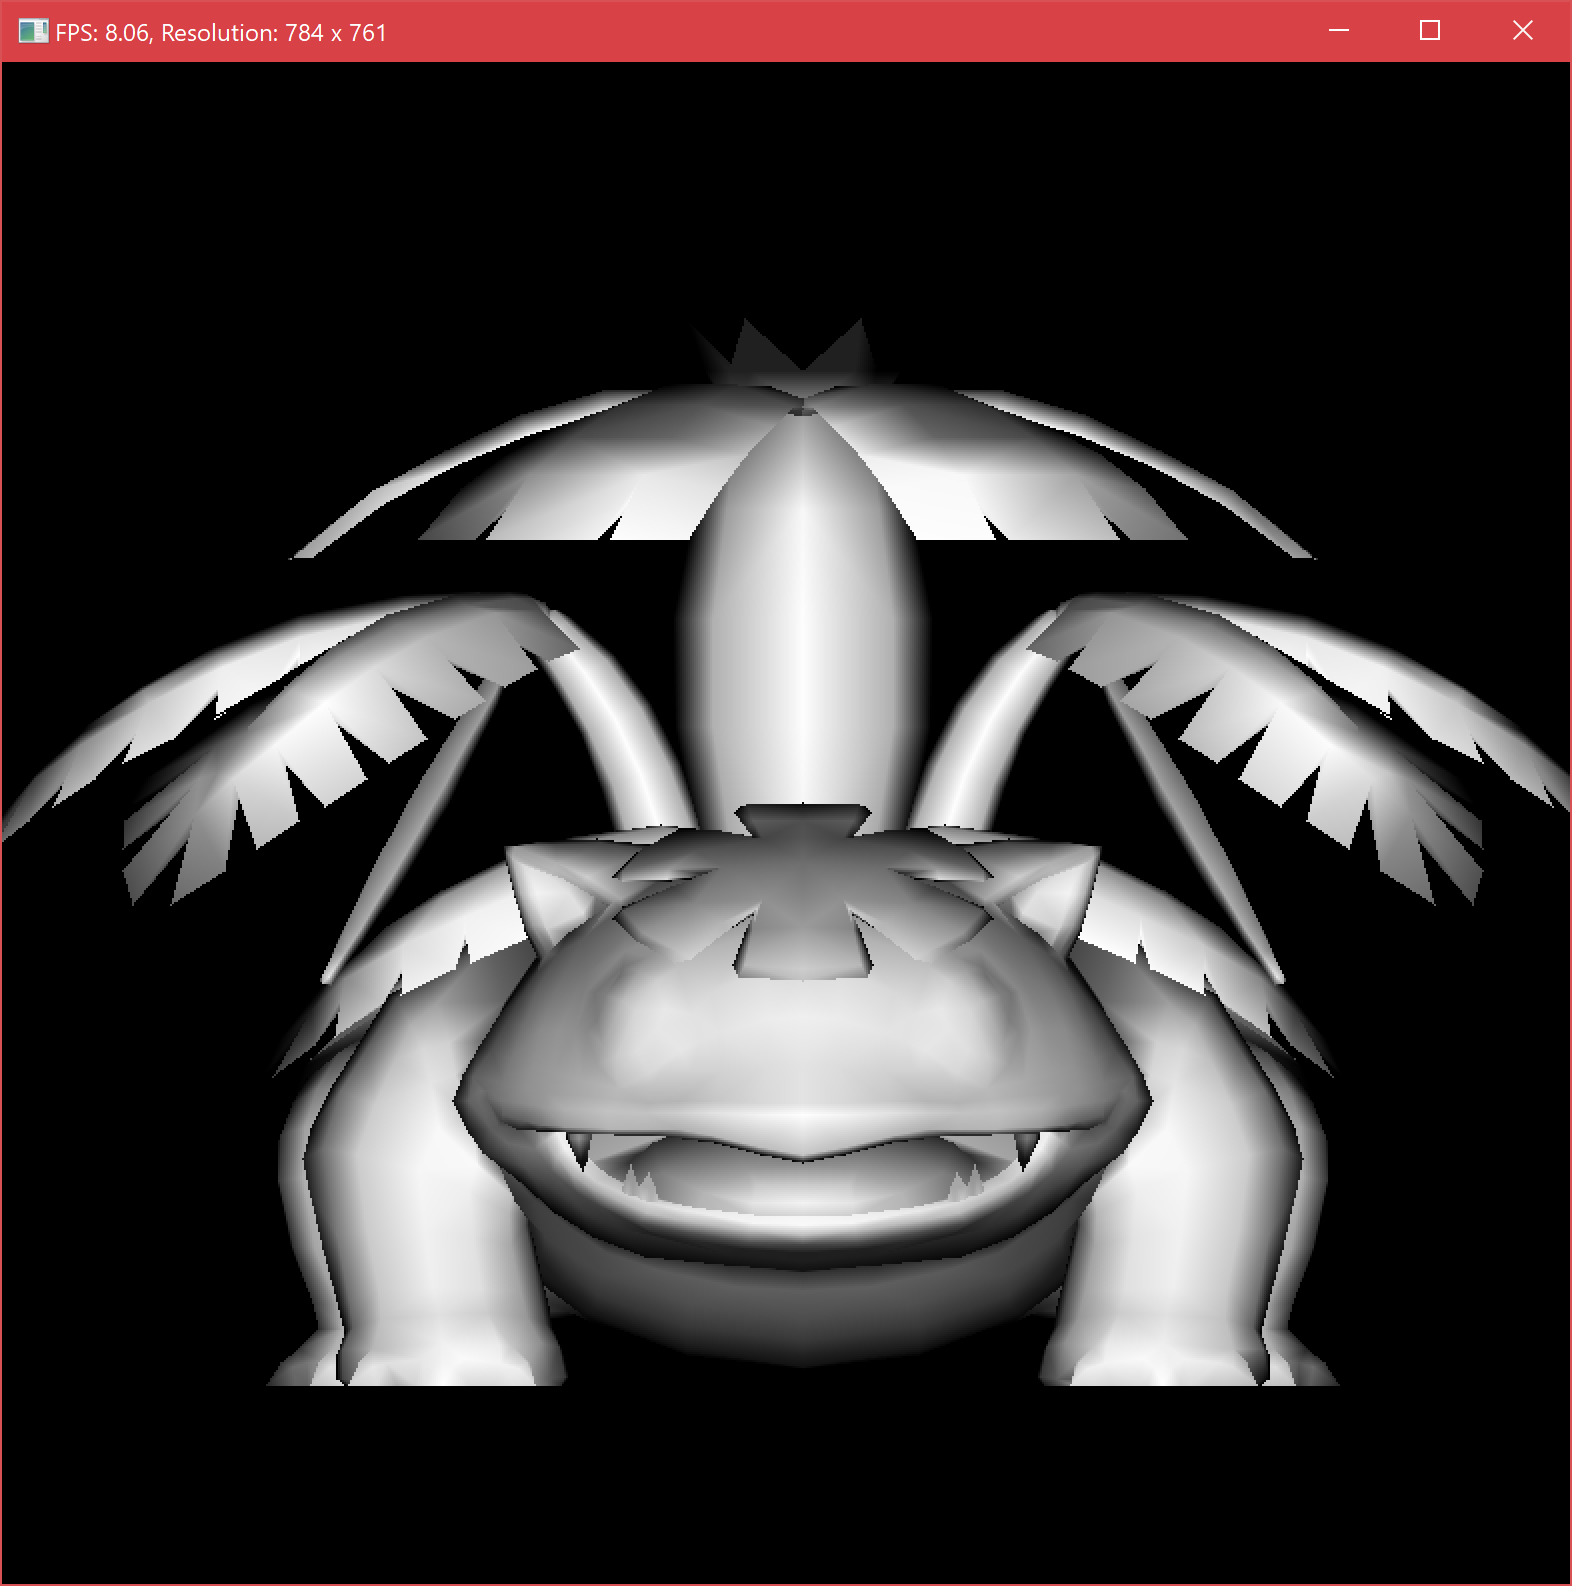
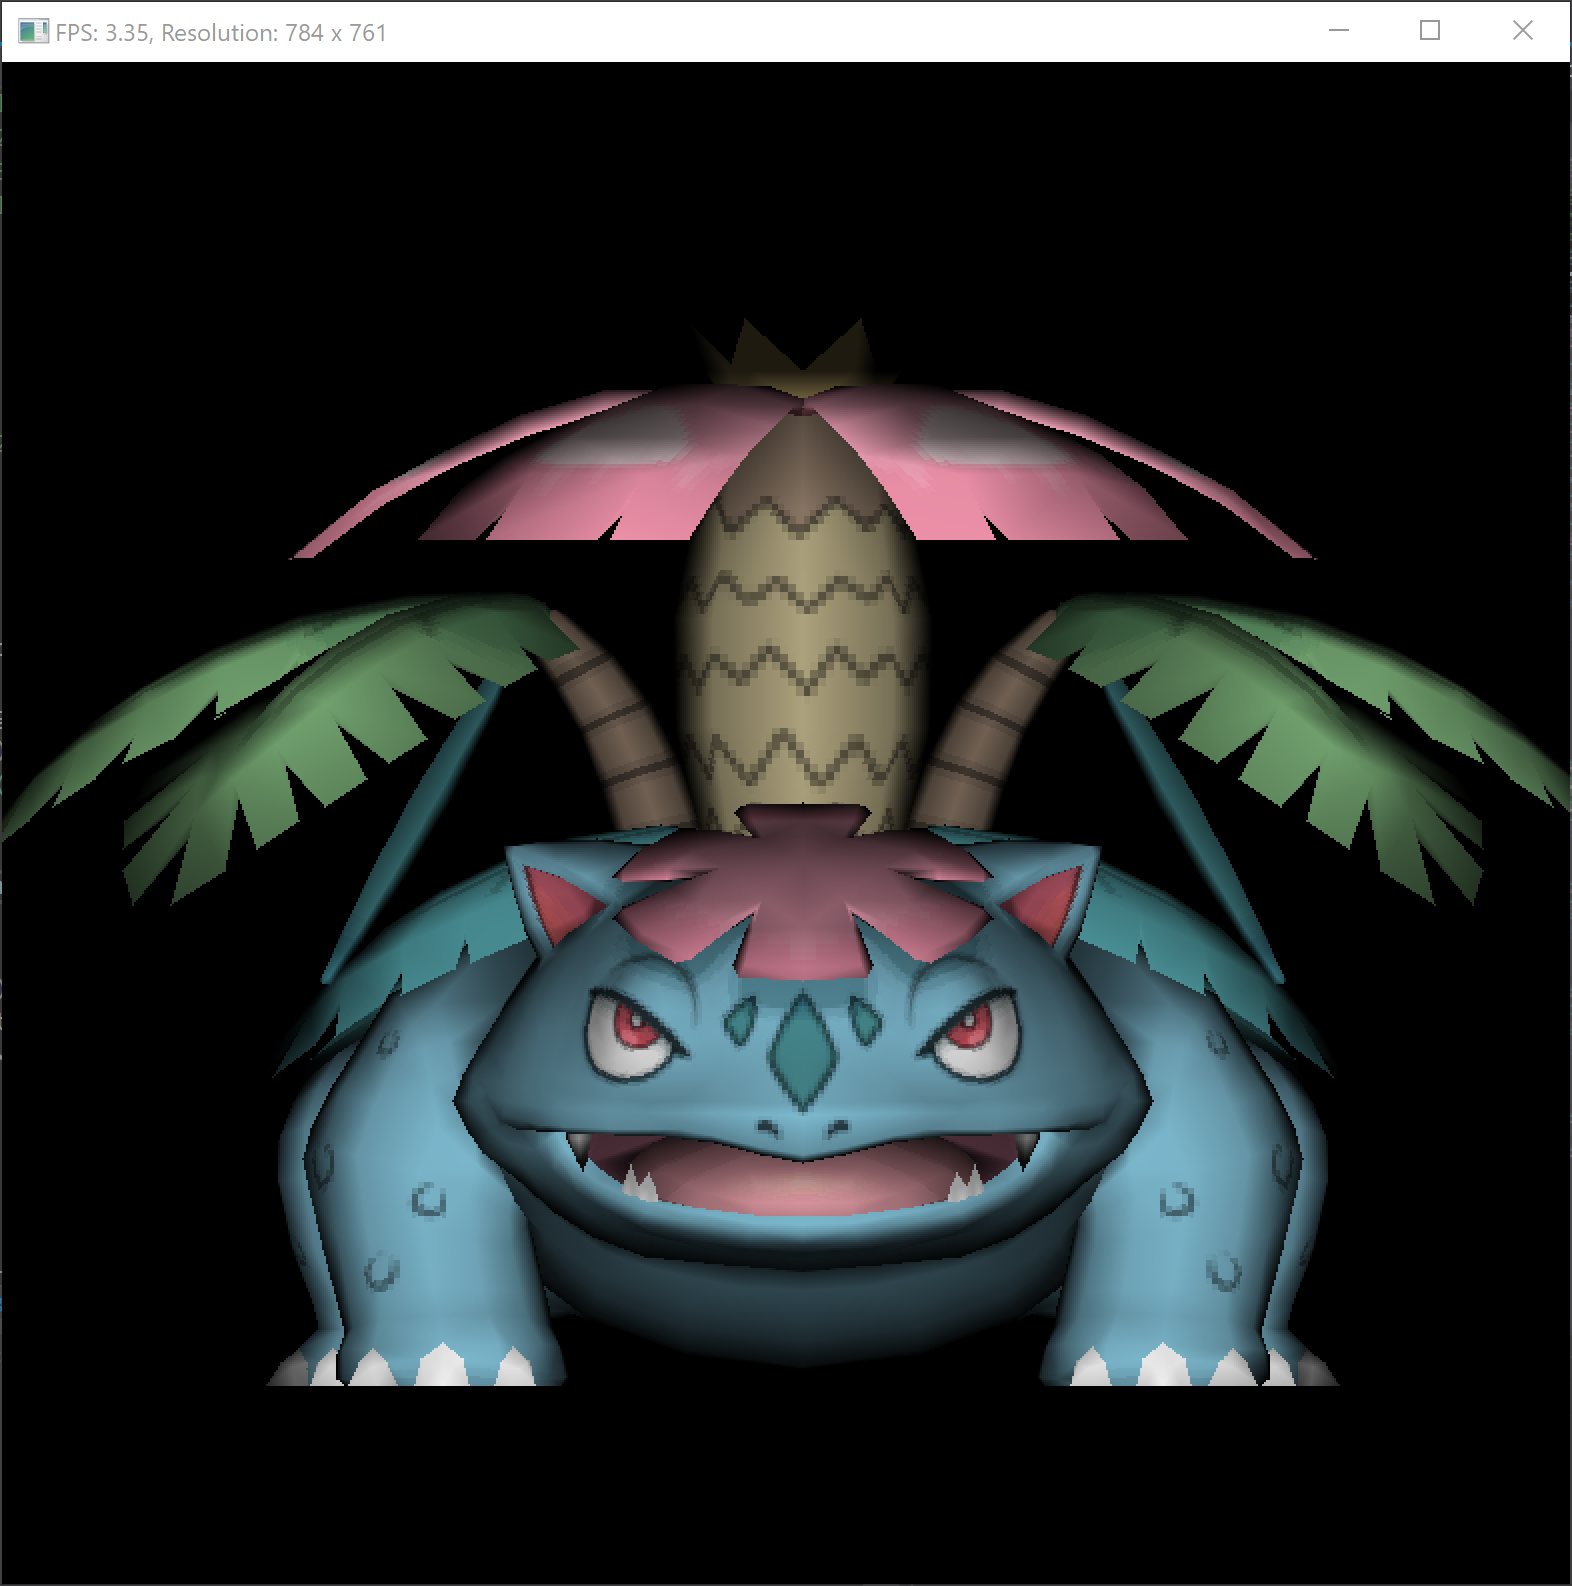
Can draw textured models now.

diff --git a/SoftwareRenderer/SoftwareRenderer/CRenderer.cpp b/SoftwareRenderer/SoftwareRenderer/CRenderer.cpp
@@ -27,10 +27,19 @@
 //}
 
 Eigen::Vector3f barycentric(CPixel p1, CPixel p2, CPixel p3, int x, int y) {
-	
+
 	Eigen::Vector3f u = Eigen::Vector3f(p3.x() - p1.x(), p2.x() - p1.x(), p1.x() - x).cross(Eigen::Vector3f(p3.y() - p1.y(), p2.y() - p1.y(), p1.y() - y));
-	if (std::abs(u[2])<1) return Eigen::Vector3f(-1, 1, 1); // triangle is degenerate, in this case return smth with negative coordinates 
+	if (std::abs(u(2)) < 1) return Eigen::Vector3f(-1, 1, 1); // triangle is degenerate, in this case return smth with negative coordinates 
 	return Eigen::Vector3f(1.f - (u(0) + u(1)) / u(2), u(1) / u(2), u(0) / u(2));
+}
+
+Gdiplus::Color getColorFromBitmap(float x, float y, Gdiplus::Bitmap* pBitmap)
+{
+	Gdiplus::Color color;
+	float x_ = (x - int(x)) * pBitmap->GetWidth();
+	float y_ = pBitmap->GetHeight() - (y - int(y)) * pBitmap->GetHeight();
+	pBitmap->GetPixel(int(x_), int(y_), &color);
+	return color;
 }
 
 void CRenderer::init()
@@ -237,6 +246,38 @@ void CRenderer::fillTriangle(CVertex v1, CVertex v2, CVertex v3) const
 void CRenderer::fillTriangle(CVertex* vtxs) const
 {
 	fillTriangle(vtxs[0], vtxs[1], vtxs[2]);
+}
+
+void CRenderer::fillTriangle(CModel::TFace face) const
+{
+	CVertex v1(face[0].vertex);
+	CVertex v2(face[1].vertex);
+	CVertex v3(face[2].vertex);
+	if ((v1.v - v2.v).cross(v2.v - v3.v).dot(Eigen::Vector3f(0, 0, 1)) < 0) return;
+	const auto scale = 2.5f;
+	CPixel p1(rint(v1.v(0) * scale) + 400, rint(v1.v(1) * scale) + 100, v1.c);
+	CPixel p2(rint(v2.v(0) * scale) + 400, rint(v2.v(1) * scale) + 100, v2.c);
+	CPixel p3(rint(v3.v(0) * scale) + 400, rint(v3.v(1) * scale) + 100, v3.c);
+
+	int minX = std::min(p1.x(), std::min(p2.x(), p3.x()));
+	int maxX = std::max(p1.x(), std::max(p2.x(), p3.x()));
+	int minY = std::min(p1.y(), std::min(p2.y(), p3.y()));
+	int maxY = std::max(p1.y(), std::max(p2.y(), p3.y()));
+
+	for (int x = minX; x <= maxX; ++x)
+		for (int y = minY; y <= maxY; ++y)
+		{
+			Eigen::Vector3f b = barycentric(p1, p2, p3, x, y);
+			if (b(0) < 0 || b(1) < 0 || b(2) < 0) continue;
+			float R = p1.color().GetR() * b(0) + p2.color().GetR() * b(1) + p3.color().GetR() * b(2);
+			float G = p1.color().GetG() * b(0) + p2.color().GetG() * b(1) + p3.color().GetG() * b(2);
+			float B = p1.color().GetB() * b(0) + p2.color().GetB() * b(1) + p3.color().GetB() * b(2);
+			float z = v1.v(2) * b(0) + v2.v(2) * b(1) + v3.v(2) * b(2);
+			Eigen::Vector2f texture = v1.t * b(0) + v2.t * b(1) + v3.t * b(2);
+			Gdiplus::Color t_color = getColorFromBitmap(texture(0), texture(1), face[0].material.texture);
+			Gdiplus::Color pixel_color(R / 255.0f * t_color.GetR(), G / 255.0f * t_color.GetG(), B / 255.0f * t_color.GetB());
+			drawPixel(CPixel(x, y, pixel_color), -z);
+		}
 }
 
 void CRenderer::clear() const

diff --git a/SoftwareRenderer/SoftwareRenderer/CModel.cpp b/SoftwareRenderer/SoftwareRenderer/CModel.cpp
@@ -1,5 +1,9 @@
 #include <fstream>
+#include <map>
+#include <locale>
+#include <codecvt>
 #include "CModel.h"
+#pragma comment (lib, "Gdiplus.lib")
 
 std::vector<std::string> split(std::string str, char ch)
 {
@@ -28,10 +32,81 @@ T str2num(std::string str, T& num)
 }
 
 
-CModel::CModel(std::string obj_file)
+CModel::SFace::SFace(CVertex v, SMtl m)
+	:vertex(v), material(m)
+{ }
+
+CModel::CModel(std::string obj_file, std::string mtl_file)
 {
+	std::map<std::string, SMtl> mtl_map;
+	if (mtl_file != "")
+	{
+		std::ifstream fin(mtl_file);
+		std::string line;
+		SMtl* current_mtl = nullptr;
+		while (getline(fin, line))
+		{
+			auto s = split(line, ' ');
+			std::string first_token(s[0]);
+			if (first_token == "newmtl")
+			{
+				SMtl newmtl;
+				newmtl.name = s[1];
+				mtl_map[s[1]] = newmtl;
+				current_mtl = &mtl_map[s[1]];
+			}
+			else if (first_token == "Kd")
+			{
+				float r, g, b;
+				str2num(s[1], r);
+				str2num(s[2], g);
+				str2num(s[3], b);
+				current_mtl->diffuse = Eigen::Vector3f(r, g, b);
+			}
+			else if (first_token == "Ka")
+			{
+				float r, g, b;
+				str2num(s[1], r);
+				str2num(s[2], g);
+				str2num(s[3], b);
+				current_mtl->ambient = Eigen::Vector3f(r, g, b);
+			}
+			else if (first_token == "Ks")
+			{
+				float r, g, b;
+				str2num(s[1], r);
+				str2num(s[2], g);
+				str2num(s[3], b);
+				current_mtl->specular = Eigen::Vector3f(r, g, b);
+			}
+			else if (first_token == "Ke")
+			{
+				float r, g, b;
+				str2num(s[1], r);
+				str2num(s[2], g);
+				str2num(s[3], b);
+				current_mtl->emission = Eigen::Vector3f(r, g, b);
+			}
+			else if (first_token == "Ns")
+			{
+				str2num(s[1], current_mtl->shininess);
+			}
+			else if (first_token == "map_Kd")
+			{
+				// string -> wstring
+				std::wstring_convert<std::codecvt_utf8<wchar_t>, wchar_t> cv;
+				std::wstring name = cv.from_bytes(s[1]);
+				current_mtl->texture = Gdiplus::Bitmap::FromFile(name.c_str());
+			}
+			else
+			{
+
+			}
+		}
+	}
 	std::ifstream fin(obj_file);
 	std::string line;
+	std::string current_mtl = "";
 	while (getline(fin, line))
 	{
 		auto s = split(line, ' ');
@@ -73,11 +148,22 @@ CModel::CModel(std::string obj_file)
 				str2num(p_detail[2], index);
 				Eigen::Vector2f t_f(texture[index - 1]);
 				CVertex vertex(v_f, n_f, t_f);
-				face.push_back(vertex);
+				if (mtl_file != "")
+				{
+					SFace this_face(vertex, mtl_map[current_mtl]);
+					face.push_back(this_face);
+				}
+				else
+				{
+					SFace this_face(vertex, SMtl());
+					face.push_back(this_face);
+				}
 			}
 			faces.push_back(face);
 		}
-		else
-		{		}
+		else if (first_token == "usemtl" && mtl_file != "")
+		{
+			current_mtl = s[1];
+		}
 	}
 }

diff --git a/SoftwareRenderer/SoftwareRenderer/main.cpp b/SoftwareRenderer/SoftwareRenderer/main.cpp
@@ -9,7 +9,7 @@
 #pragma comment (lib, "Gdiplus.lib")
 
 CRenderer* p_renderer = nullptr;
-CModel model("m003.obj");
+CModel* p_model;
 
 VOID paint_main(CRenderer& renderer)
 {
@@ -37,15 +37,16 @@ VOID paint_main(CRenderer& renderer)
 	//renderer.drawLine(p1, p8);
 	//renderer.drawLine(p1, p9);
 	Eigen::Vector3f light = { 0, 0, 1 };
-	for (CModel::TFace face : model.faces)
+	for (CModel::TFace face : p_model->faces)
 	{
 		for (int i = 0; i < 3; ++i)
 		{
-			float intensity = face[i].n.dot(light);
+			float intensity = face[i].vertex.n.dot(light);
 			intensity = intensity > 1.0f ? 1.0f : intensity < 0.0f ? 0.0f : intensity;
-			face[i].c = Gdiplus::Color(255 * intensity, 255 * intensity, 255 * intensity);
+			face[i].vertex.c = Gdiplus::Color(255 * intensity, 255 * intensity, 255 * intensity);
 		}
-		renderer.fillTriangle(&*face.begin());
+		renderer.fillTriangle(face);
+		//renderer.fillTriangle(face[0].vertex, face[1].vertex, face[2].vertex);
 	}
 
 }
@@ -70,6 +71,9 @@ int WINAPI WinMain(HINSTANCE hInstance,
 
 	// Initialize GDI+.
 	GdiplusStartup(&gdiplusToken, &gdiplusStartupInput, nullptr);
+
+	CModel model("m003.obj", "m0030.mtl");
+	p_model = &model;
 
 	// clear out the window class for use
 	ZeroMemory(&wc, sizeof(WNDCLASSEX));

diff --git a/SoftwareRenderer/SoftwareRenderer/CModel.h b/SoftwareRenderer/SoftwareRenderer/CModel.h
@@ -6,13 +6,29 @@
 class CModel
 {
 public:
-	typedef std::vector<CVertex> TFace;
-	std::string filename;
+	struct SMtl
+	{
+		std::string name = "";
+		Eigen::Vector3f ambient = Eigen::Vector3f::Zero();
+		Eigen::Vector3f diffuse = Eigen::Vector3f::Zero();
+		Eigen::Vector3f specular = Eigen::Vector3f::Zero();
+		Eigen::Vector3f emission = Eigen::Vector3f::Zero();
+		float shininess = 0.0f;
+		Gdiplus::Bitmap* texture = nullptr;
+	};
+	struct SFace
+	{
+		CVertex vertex;
+		SMtl material;
+
+		SFace(CVertex v, SMtl m);
+	};
+	typedef std::vector<SFace> TFace;
 	std::vector<Eigen::Vector3f> vertices;
 	std::vector<Eigen::Vector3f> normals;
 	std::vector<Eigen::Vector2f> texture;
 	std::vector<TFace> faces;
 public:
-	CModel(std::string obj_file);
+	CModel(std::string obj_file, std::string mtl_file = "");
 };
 

diff --git a/SoftwareRenderer/SoftwareRenderer/CRenderer.h b/SoftwareRenderer/SoftwareRenderer/CRenderer.h
@@ -4,6 +4,7 @@
 #include <gdiplus.h>
 #include "CPixel.h"
 #include "CVertex.h"
+#include "CModel.h"
 
 #undef max
 #undef min
@@ -50,6 +51,7 @@ public:
 	// 3D
 	void fillTriangle(CVertex v1, CVertex v2, CVertex v3) const;
 	void fillTriangle(CVertex* vtxs) const;
+	void fillTriangle(CModel::TFace face) const;
 
 	void clear() const;
 	void draw() const;

diff --git a/README.md b/README.md
@@ -1,11 +1,11 @@
 # SoftwareRenderer
 A very simple software renderer using GDI+ and [Eigen](http://eigen.tuxfamily.org/).
 
-GDI+ is only used for displaying bitmap. The only functions used in GDI+ are `Bitmap::SetPixel`, `Graphics::FillRectangle` and `Graphics::DrawImage`.
+GDI+ is only used for displaying bitmap, setting pixels of a bitmap and getting pixels' color from a texture file.
 
 Eigen is only used for calculation of matrices and vectors. It is licensed under [MPL2](https://www.mozilla.org/en-US/MPL/2.0/).
 
 ## Progress
-Currently, this renderer can draw wire-framed and filled 2D triangles. It can also draw 3D models (in 2D) saved as obj files with backface culling, z-buffer and Gouraud shading.
+Currently, this renderer can draw wire-framed and filled 2D triangles. It can also draw textured 3D models (in 2D) saved as obj files and mtl files with backface culling, z-buffer and Gouraud shading.
 
 ![CurrentProgress](https://raw.githubusercontent.com/shurunxuan/SoftwareRenderer/master/SoftwareRenderer/progress.png)
